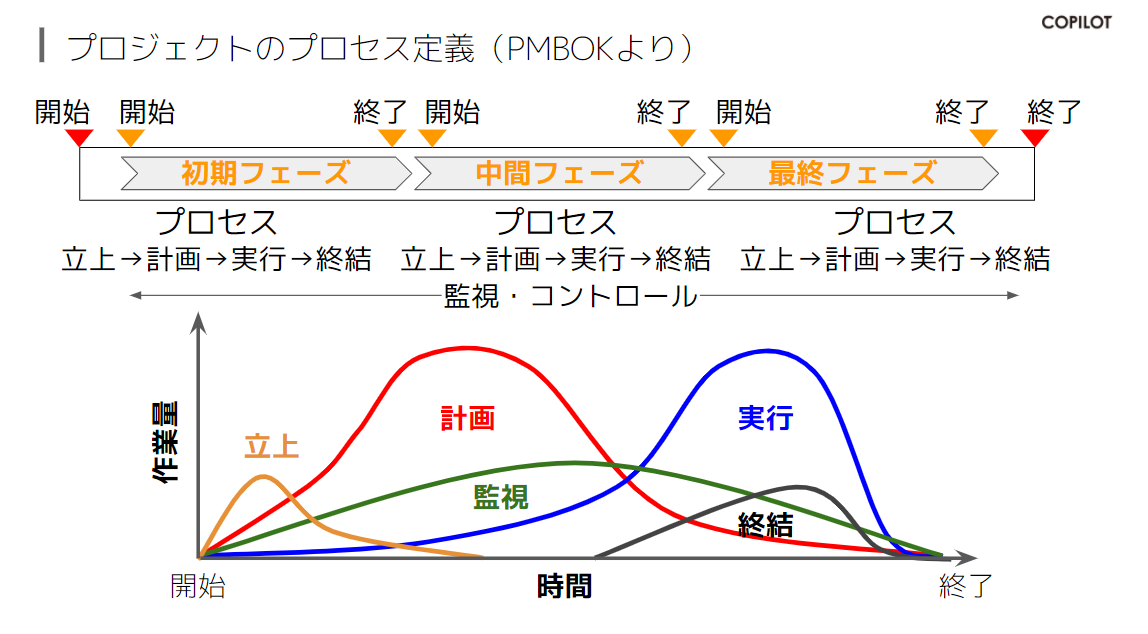
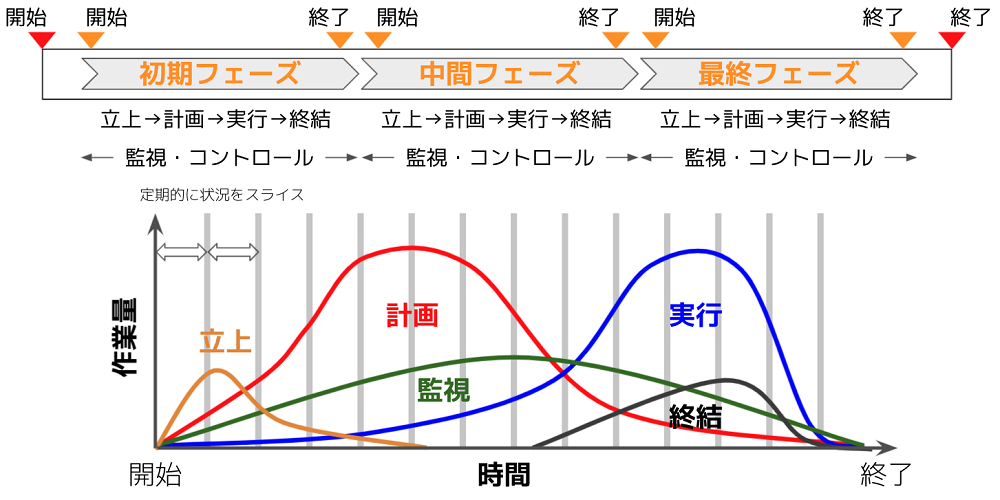
定期的な振り返りの必要性について追記

Changed region(s): [[0.0, 0.0, 0.992, 0.99]]

diff --git a/ja/code/tips/tips12.md b/ja/code/tips/tips12.md
@@ -6,31 +6,37 @@ image: https://projectsprint.org/images/pjs_og.png
 
 [ミーティングを設計する](../tutorial/section2-3)で記述したように、プロジェクトスプリントではミーティングを定期開催とすることが必要です。ここでは、その理由について解説します。
 
-1. 前回のミーティングから今回のミーティングまでの差分をキャッチアップする機会を保証できる。
+1. 定期的に振り返りを行うことで、プロジェクトを最適化できる。
+
+  不確実性の高いプロジェクトにおいては、マイルストーン達成までの道のりは整然と進むわけではありません。各フェーズの中で、立ち上げ、計画、実行、終結といったそれぞれの段階が重なり合い影響し合いながら進行していくのです。そこで、定期的なミーティングでの振り返りによってメンバー間の認識を都度擦り合わせ、必要に応じて調整を加えることで、プロジェクトを最適化する必要があります。
+
+![定期的な振り返りの必要性](/ja/images/process.png)
+（PMBOKの概念を参照）
+
+2. 前回のミーティングから今回のミーティングまでの差分をキャッチアップする機会を保証できる。
 
    プロジェクトはルーチンワークと違って不確実性が高く、目的も変化しやすいものです。社会や組織の変化が激しいなかでも、定期的に集まることで、各チームメンバーが経験したこと・変化を確実に、定期的に吸収することができます。これらをインプットするからこそ、プロジェクトのゴールやマイルストーンをみんなで合意して変化させることも可能になります。
 
-   ![プロジェクトとルーチンワークの違い](/ja/images/project.png)
+##### プロジェクトとルーチンワークの違い
+![プロジェクトとルーチンワークの違い](/ja/images/project.png)
 
-2. チームメンバーのスケジュールの調整コストが低くなる。
+3. チームメンバーのスケジュールの調整コストが低くなる。
 
    社内外の多様なメンバーが参加するようなプロジェクトも多い昨今では、都度スケジュール調整をしているとそれだけで時間がかかります。そのため、あらかじめスケジュール設定をしておく方が効率がよいのです。また都度ミーティングを調整していると必要なタイミングでミーティング開催ができません。これは、必要十分な参加者が一度に集まって素早く効率的に意思決定をするというプロジェクトスプリントの利点を損ねてしまいます。
 
-3. 同じ曜日・時間に開催されることで、他のチームの人が共有のために覗きに来やすくなる。
+4. 同じ曜日・時間に開催されることで、他のチームの人が共有のために覗きに来やすくなる。
 
    あるアジェンダアイテムについて特定のゲストを呼び、スペシャリストとしてのコメントをもらうといったことはよくありますが、定期的な時間・曜日があらかじめ設定されていると都度の調整が必要なく、すでにある時間に招待すればよいため、効率的です。
 
-4. 定期的に期間を区切るほうがタスクの粒度を作りやすい。
+5. 定期的に期間を区切るほうがタスクの粒度を作りやすい。
 
    定期的な期間、例えば「1週間でできること」という基準となる間隔をもつことで、これぐらいのタスクであればできるかな、という予測がしやすくなります。現実的なタスクを作成することは、アウトプットを確実につくること、ひいてはアジェンダの確度を上げることにつながります。個々人のアクティビティであるタスク実行をプロジェクト全体の成果に反映させるプロセスを定期的に繰り返すことによって、プロジェクトが最適化されていきます。
 
-   ![プロジェクトのプロセス定義](/ja/images/process.png)
-
-5. 定期開催とすると業務のリズムをつくりやすいのでタスクが消化しやすくなる。
+6. 定期開催とすると業務のリズムをつくりやすいのでタスクが消化しやすくなる。
 
    例えば毎週月曜日はこのミーティングがあるのでこういう作業時間を確保しておこう、など。個々のメンバーが作業計画を立てやすくなります。
 
-6. 定期的なプロジェクトの記録になる。
+7. 定期的なプロジェクトの記録になる。
 
    会議のアジェンダ、議事録、タスクの進捗報告が定点観測的に残ります。これは振り返りの際に参照しやすいログとなるほか、新しいメンバーが参加した際の読みやすさも担保します（過去の情報をむやみに読むよりは、定期的に出力されたものをマイルストーンに沿って読むほうが理解しやすいため）。また、こうしたログが残っていれば、別のプロジェクトを開始する際、過去のプロジェクトがこのようにすすんだのだという参考やひな形にしやすくなります。
 
